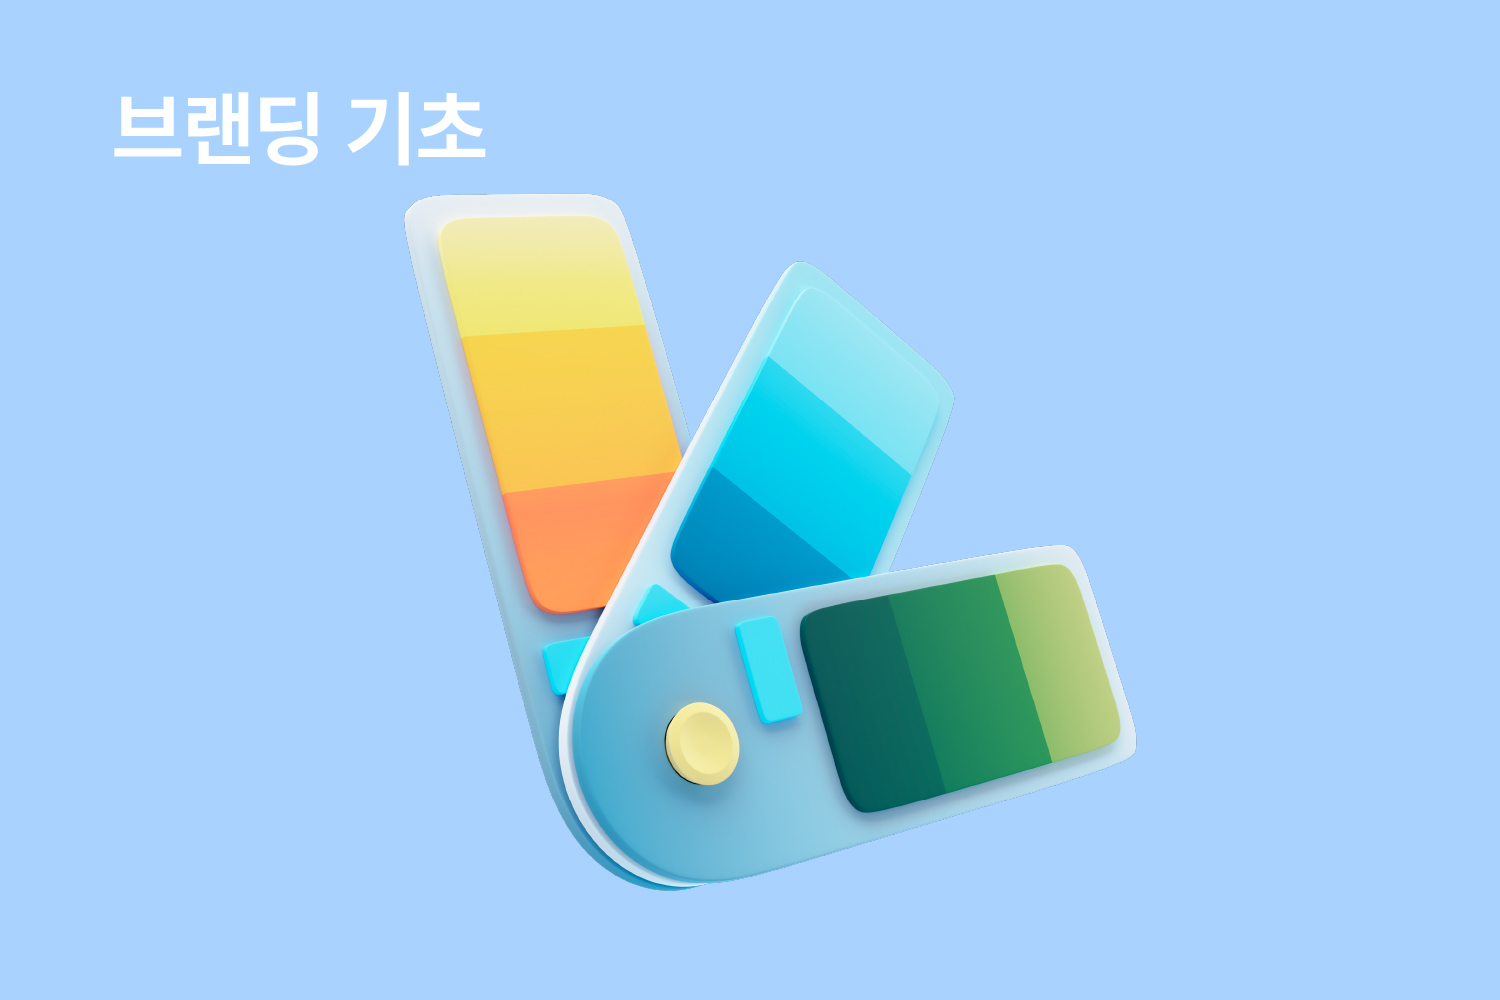
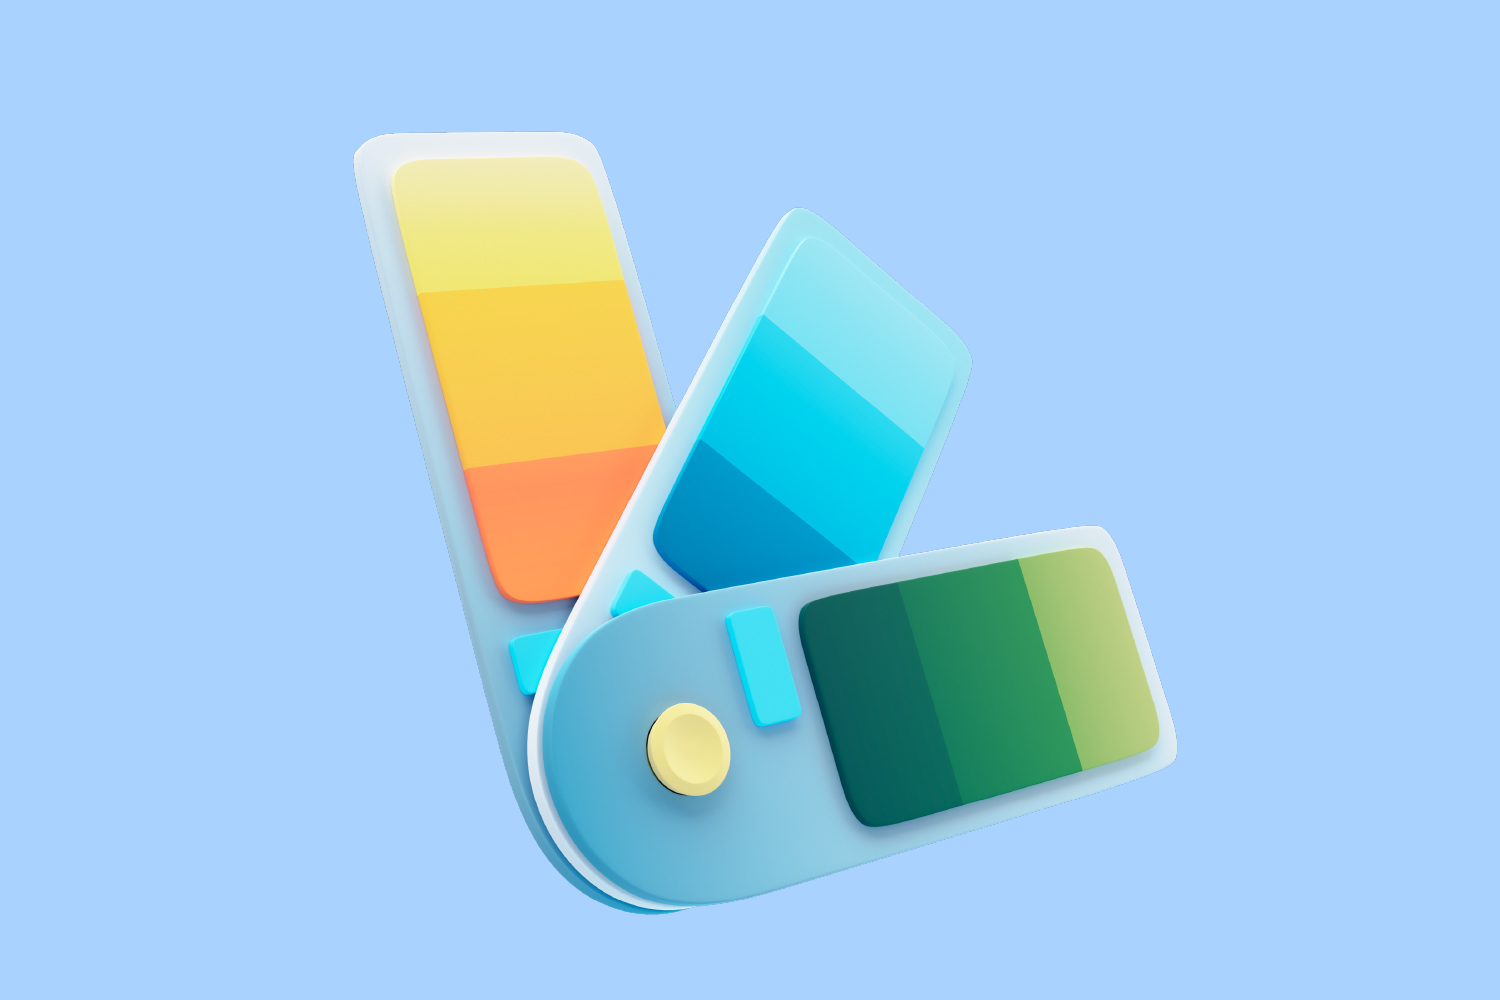
feat: 인사이트 글 업데이트
신규: ai-tools-for-designers (디자이너가 실제로 사용하는 AI 도구 7가지)
수정: brand-equity (날짜/내용 수정)
삭제: long-title-example (더미 글 제거)
이미지 교체: brand-color, brand-equity, free-english-fonts, free-vector-image-sites, why-branding-brand-asset

Changed region(s): [[0.0613, 0.093, 0.7973, 0.93]]

diff --git a/content/insights/ai-tools-for-designers.md b/content/insights/ai-tools-for-designers.md
@@ -1,0 +1,174 @@
+---
+title: 디자이너가 실제로 사용하는 AI 도구 7가지
+category: 디자인 실무
+date: 2026-3-12
+excerpt: 기획, 이미지, 제안서, 웹사이트까지 디자인 업무에 도움 되는 AI 도구 모음.
+thumbnail: /insights/ai-tools-for-designers/cover.jpg
+---
+
+# 디자이너가 실제로 사용하는 AI 도구 7가지
+
+AI는 이제 디자이너에게 낯선 도구가 아닙니다.
+
+아이디어를 정리하고, 이미지를 만들고, 제안서를 구성하고, 웹사이트 구조를 잡는 일까지 다양한 디자인 실무에 활용되고 있습니다.
+
+물론 AI가 디자이너의 감각과 판단을 대신할 수는 없습니다.
+
+하지만 잘 활용하면 반복적인 작업 시간을 줄이고, 더 빠르게 다양한 시안을 검토할 수 있습니다.
+
+오늘은 디자이너가 실무에서 활용하기 좋은 AI 도구 7가지를 소개합니다.
+
+---
+
+## 1. ChatGPT
+
+ChatGPT는 가장 범용적으로 활용할 수 있는 AI 도구입니다.
+
+디자인 업무에서는 글쓰기, 아이디어 정리, 기획 방향 설정에 유용합니다.
+
+활용 예시
+
+- 브랜드 네이밍 아이디어
+- 슬로건 작성
+- 디자인 컨셉 정리
+- 제안서 문구 작성
+- 블로그 글 작성
+- 상세페이지 카피 작성
+
+아이디어가 막힐 때 브레인스토밍 도구로 사용하기 좋습니다.
+
+---
+
+## 2. Claude
+
+Claude는 긴 문서 작업에 강점이 있는 AI입니다.
+
+기획서, 보고서, 고객 요청사항처럼 분량이 많은 자료를 정리할 때 유용합니다.
+
+활용 예시
+
+- 브랜드 기획서 정리
+- 고객 요구사항 요약
+- 긴 문서 분석
+- 제안서 문장 다듬기
+- 디자인 설명문 작성
+
+문장이 자연스러운 편이라 글을 정돈하는 용도로도 많이 활용됩니다.
+
+---
+
+## 3. Midjourney
+
+Midjourney는 이미지 생성 AI로 잘 알려진 도구입니다.
+
+브랜드 무드나 비주얼 방향성을 빠르게 탐색할 때 도움이 됩니다.
+
+활용 예시
+
+- 브랜드 무드보드 제작
+- 컨셉 이미지 생성
+- 패키지 디자인 아이디어
+- 광고 비주얼 시안
+- 공간 브랜딩 이미지 제작
+
+완성 이미지를 그대로 사용하기보다는 초기 아이디어를 시각화하는 용도로 활용하기 좋습니다.
+
+---
+
+## 4. Magnific
+
+Magnific은 이미지, 영상, 오디오 등 크리에이티브 작업에 활용할 수 있는 AI 플랫폼입니다.
+
+특히 이미지 퀄리티를 높이거나 비주얼 작업을 확장할 때 유용합니다.
+
+활용 예시
+
+- 이미지 업스케일링
+- 저해상도 이미지 보정
+- 제품 비주얼 개선
+- 캠페인 이미지 제작
+- 영상 작업 보조
+
+디자인 결과물의 완성도를 높이고 싶을 때 활용하기 좋은 도구입니다.
+
+---
+
+## 5. Relume
+
+Relume은 웹사이트 기획과 와이어프레임 제작에 특화된 AI 도구입니다.
+
+간단한 설명만 입력해도 사이트 구조와 화면 구성을 제안해 줍니다.
+
+활용 예시
+
+- 홈페이지 기획
+- 사이트맵 구성
+- 랜딩페이지 구조 설계
+- 와이어프레임 제작
+- 웹사이트 초안 구성
+
+웹디자인 프로젝트의 초기 기획 단계에서 시간을 줄이는 데 도움이 됩니다.
+
+---
+
+## 6. Gamma
+
+Gamma는 프레젠테이션 제작에 특화된 AI 도구입니다.
+
+내용을 입력하면 발표 자료나 제안서 형태로 자동 구성해 줍니다.
+
+활용 예시
+
+- 디자인 제안서 제작
+- 브랜드 소개서 제작
+- 포트폴리오 초안 제작
+- 발표 자료 제작
+- 서비스 소개 자료 제작
+
+레이아웃을 처음부터 잡기 어려울 때 빠르게 초안을 만들 수 있습니다.
+
+---
+
+## 7. Napkin
+
+Napkin은 텍스트를 다이어그램이나 시각 자료로 바꿔주는 AI 도구입니다.
+
+복잡한 내용을 쉽게 설명해야 하는 디자인 작업에 유용합니다.
+
+활용 예시
+
+- 프로세스 정리
+- 플로우차트 제작
+- 서비스 구조 설명
+- 인포그래픽 아이디어 제작
+- 기획서 시각화
+
+글로만 설명하기 어려운 내용을 시각적으로 정리할 때 활용하기 좋습니다.
+
+---
+
+## AI는 디자이너를 대체할까?
+
+AI가 빠르게 발전하면서 디자이너의 역할에 대한 이야기도 많아지고 있습니다.
+
+하지만 실무에서 중요한 것은 도구 자체보다 그것을 어떻게 활용하는지입니다.
+
+AI는 빠르게 결과물을 만들어 주지만,
+
+어떤 방향이 브랜드에 맞는지,
+무엇을 선택해야 하는지,
+어디를 수정해야 하는지는 여전히 디자이너의 판단이 필요합니다.
+
+결국 AI는 디자이너를 대체하는 도구라기보다 디자인 업무를 더 빠르고 효율적으로 만들어주는 도구에 가깝습니다.
+
+---
+
+## 마무리
+
+디자인 실무에서 AI는 이미 다양하게 활용되고 있습니다.
+
+글쓰기, 이미지 생성, 제안서 제작, 웹사이트 기획, 다이어그램 제작까지 여러 업무를 보조할 수 있습니다.
+
+중요한 것은 모든 AI를 다 사용하는 것이 아닙니다.
+
+자신의 업무에 맞는 도구를 선택하고, 필요한 부분에 적절히 활용하는 것이 가장 좋은 방법입니다.

diff --git a/content/insights/brand-equity.md b/content/insights/brand-equity.md
@@ -2,7 +2,7 @@
 title: 브랜드 자산이 중요한 이유, 브랜딩을 해야 하는 진짜 이유
 category: 브랜딩 기초
 date: 2026-06-05
-excerpt: 브랜드는 로고가 아니라 고객의 머릿속에 쌓이는 신뢰와 경험입니다.
+excerpt: 고객은 제품보다 브랜드를 기억합니다.
 thumbnail: /insights/brand-equity/cover.jpg
 ---
 
